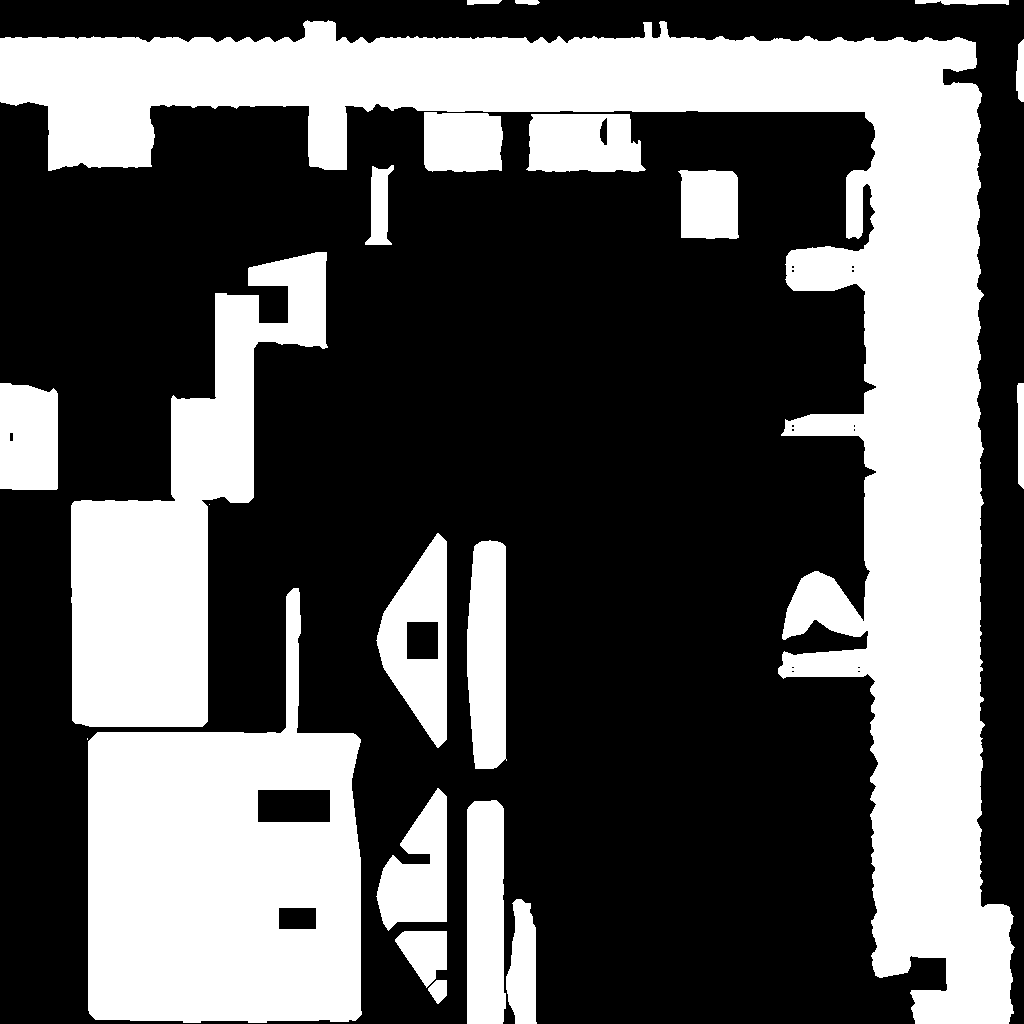
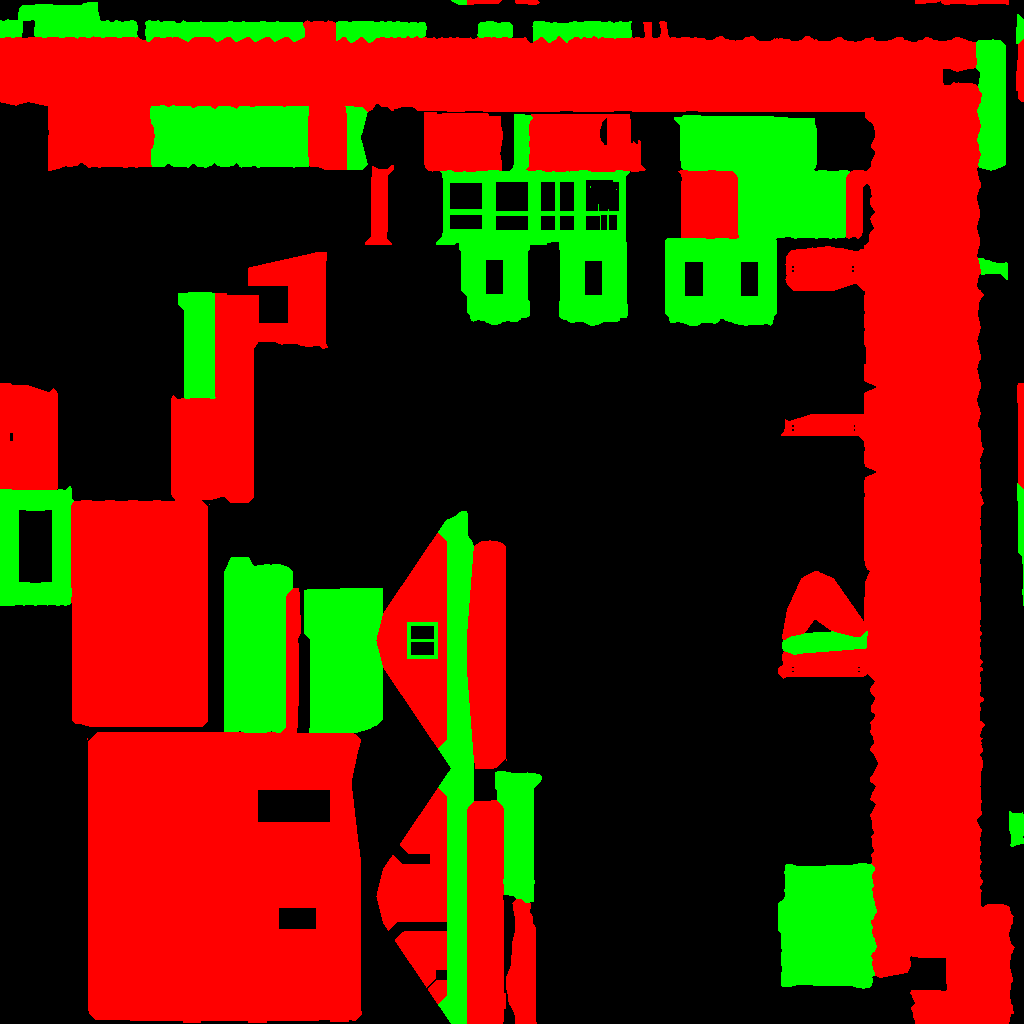
assets: цветная маска избы (дерево и крашеные детали), скрипт настройки цвета наличников

diff --git a/assets/izba_slate/_work/14_woodmask.py b/assets/izba_slate/_work/14_woodmask.py
@@ -48,16 +48,29 @@ tp = np.array(tex.pixels[:], dtype=np.float32).reshape(R, R, tex.channels)[..., 
 diff = np.abs(tp[m] - col).max()
 print('CHECK colour recomputed here vs T_IzbaSlate_D.png on painted texels: max abs diff %.4f (1/255 = 0.0039)' % diff)
 
-mask = np.zeros((R, R)); mask[m] = wood
-filled = m.copy()
-for _ in range(8):                                      # same 8 px bleed as the colour texture, kept binary
-    acc = np.zeros((R, R)); cnt = np.zeros((R, R))
-    for dy, dx in ((0, 1), (0, -1), (1, 0), (-1, 0), (1, 1), (1, -1), (-1, 1), (-1, -1)):
-        acc += np.roll(np.roll(mask * filled, dy, 0), dx, 1); cnt += np.roll(np.roll(filled, dy, 0), dx, 1)
-    new = (~filled) & (cnt > 0)
-    mask[new] = (acc[new] / cnt[new]) >= 0.5
-    filled |= new
-px = np.concatenate([np.repeat(mask[..., None], 3, -1), np.ones((R, R, 1))], -1).astype(np.float32)
+# green channel: painted wooden details (flaking paint incl. the bare patches inside them)
+painted = np.isin(prt, (P_CASING, P_DOORFRAME, P_BARGE))
+s = prt == P_GABLE
+front = N[s, 0] < 0; a_, b_ = np.abs(Y[s]), np.abs(Z[s] - (WTOP + 0.19 + 0.42))
+win = front & (a_ < 0.33) & (b_ < 0.27)
+painted[s] = (Z[s] < WTOP + 0.19) | (win & ((a_ > 0.26) | (b_ > 0.20) | (a_ < 0.022)))
+s = prt == P_GLASS                                      # window sashes around the panes
+painted[s] = (np.minimum(I[s, 1], I[s, 2]) < 0.05) | (np.abs(L[s, 0]) > I[s, 1] - 0.022) | (np.abs(L[s, 2]) > I[s, 2] - 0.022)
+
+def bleed(val):                                         # same 8 px bleed as the colour texture, kept binary
+    mask = np.zeros((R, R)); mask[m] = val
+    filled = m.copy()
+    for _ in range(8):
+        acc = np.zeros((R, R)); cnt = np.zeros((R, R))
+        for dy, dx in ((0, 1), (0, -1), (1, 0), (-1, 0), (1, 1), (1, -1), (-1, 1), (-1, -1)):
+            acc += np.roll(np.roll(mask * filled, dy, 0), dx, 1); cnt += np.roll(np.roll(filled, dy, 0), dx, 1)
+        new = (~filled) & (cnt > 0)
+        mask[new] = (acc[new] / cnt[new]) >= 0.5
+        filled |= new
+    return mask
+mask = bleed(wood)
+gmask = bleed(painted) * (mask < 0.5)                   # a border texel never belongs to both
+px = np.stack([mask, gmask, np.zeros((R, R)), np.ones((R, R))], -1).astype(np.float32)
 PATH = OUT + 'T_IzbaSlate_WoodMask.png'
 im = bpy.data.images.new('T_IzbaSlate_WoodMask', R, R, alpha=False)
 im.pixels.foreach_set(px.ravel())
@@ -65,17 +78,22 @@ im.filepath_raw = PATH; im.file_format = 'PNG'; im.save()
 
 # ---------- checks on the saved file ----------
 chk = bpy.data.images.load(PATH)
-mk = np.array(chk.pixels[:], dtype=np.float32).reshape(R, R, chk.channels)[..., 0]
-print('MASK %s %dx%d channels=%d depth=%d %.1f KB values=%s white=%.3f of texture' % (
-    PATH, chk.size[0], chk.size[1], chk.channels, chk.depth, os.path.getsize(PATH) / 1024, np.unique(mk).round(3), (mk > 0.5).mean()))
-print('CHECK saved mask equals computed on painted texels: %s' % bool(((mk[m] > 0.5) == wood).all()))
+ck = np.array(chk.pixels[:], dtype=np.float32).reshape(R, R, chk.channels)
+mk, gk, bk = ck[..., 0], ck[..., 1], ck[..., 2]
+print('MASK %s %dx%d channels=%d depth=%d %.1f KB red values=%s green values=%s blue max=%.3f red=%.3f green=%.3f of texture' % (
+    PATH, chk.size[0], chk.size[1], chk.channels, chk.depth, os.path.getsize(PATH) / 1024, np.unique(mk).round(3), np.unique(gk).round(3), bk.max(), (mk > 0.5).mean(), (gk > 0.5).mean()))
+print('CHECK saved channels equal computed on painted texels: red %s green %s' % (bool(((mk[m] > 0.5) == wood).all()), bool(((gk[m] > 0.5) == painted).all())))
+print('CHECK texels set in both red and green (whole file): %d' % int(((mk > 0.5) & (gk > 0.5)).sum()))
+prev = bpy.data.images.load(W_DIR + '_woodmask_v1_red_only.png')
+pv = np.array(prev.pixels[:], dtype=np.float32).reshape(R, R, prev.channels)[..., 0]
+print('CHECK red channel vs previous mask file (all 1024x1024 texels): differing texels %d' % int(((pv > 0.5) != (mk > 0.5)).sum()))
 names = {P_WALL: 'wall logs', P_FOUND: 'foundation', P_GLASS: 'glass+frames', P_DOORLEAF: 'door', P_REVEAL: 'recess sides', P_SILL: 'recess sills',
          P_CASING: 'casings', P_DOORFRAME: 'door frame', P_PORCH: 'porch', P_LOGSIDE: 'log ends side', P_LOGCAP: 'log end caps', P_HIDDEN: 'hidden',
          P_GABLE: 'gable', P_SLATE: 'slate', P_SLATE_EDGE: 'slate edges', P_RIDGE: 'ridge', P_BARGE: 'barge boards', P_CHIM: 'chimney',
          P_PATCH: 'tin patch', P_BOARD: 'window boards', P_SHEATH: 'sheathing', P_SOFFIT: 'soffit'}
 for p in np.unique(prt):
     q = prt == p
-    print('PART %-14s texels %6d white %5.1f%%' % (names[int(p)], q.sum(), 100 * wood[q].mean()))
+    print('PART %-14s texels %6d red %5.1f%% green %5.1f%%' % (names[int(p)], q.sum(), 100 * wood[q].mean(), 100 * painted[q].mean()))
 r, g, b = tp[m][:, 0], tp[m][:, 1], tp[m][:, 2]
 green = (g - b > 14 / 255) & (g - r > 7 / 255)                      # moss
 rust = (r - b > 30 / 255)                                           # rust, brick
@@ -88,7 +106,10 @@ print('CHECK white area: mean rgb %s, max saturation %.3f | black area: mean rgb
 
 # overlay for the eye: wood kept, everything else tinted magenta
 ov = tp.copy()
-ov[mk < 0.5] = ov[mk < 0.5] * 0.35 + np.array([0.45, 0.0, 0.45])
+ov[(mk < 0.5) & (gk < 0.5)] = ov[(mk < 0.5) & (gk < 0.5)] * 0.35 + np.array([0.45, 0.0, 0.45])
+ov[gk > 0.5] = ov[gk > 0.5] * 0.6 + np.array([0.0, 0.4, 0.0])
+gp = (gk[m] > 0.5)
+print('CHECK by colour of T_IzbaSlate_D.png: pale-paint texels in green %d, in red %d, in neither %d (tin of ridge/patch expected)' % ((pale & gp).sum(), (pale & wood).sum(), (pale & ~gp & ~wood).sum()))
 o = bpy.data.images.new('ov', R, R, alpha=False)
 o.pixels.foreach_set(np.concatenate([ov, np.ones((R, R, 1))], -1).astype(np.float32).ravel())
 o.filepath_raw = OUT + 'renders/_qc_woodmask_overlay.png'; o.file_format = 'PNG'; o.save()

diff --git a/scripts/ue-remote/izba_trimtint.py b/scripts/ue-remote/izba_trimtint.py
@@ -1,0 +1,37 @@
+import unreal
+at=unreal.AssetToolsHelpers.get_asset_tools(); eal=unreal.EditorAssetLibrary; mel=unreal.MaterialEditingLibrary
+print('PIE',unreal.get_editor_subsystem(unreal.LevelEditorSubsystem).is_in_play_in_editor())
+SRC='E:/game-dev-team/assets/izba_slate/'; DEST='/Game/Environment/Buildings'
+mi=unreal.load_asset(DEST+'/MI_IzbaSlate')
+print('BEFORE wood',mel.get_material_instance_vector_parameter_value(mi,'WoodTint'),mel.get_material_instance_scalar_parameter_value(mi,'WoodBrightness'))
+tt=unreal.AssetImportTask()
+for k,v in [('filename',SRC+'T_IzbaSlate_WoodMask.png'),('destination_path',DEST),('destination_name','T_IzbaSlate_WoodMask'),('replace_existing',True),('automated',True),('save',False)]: tt.set_editor_property(k,v)
+at.import_asset_tasks([tt])
+mask=unreal.load_asset(DEST+'/T_IzbaSlate_WoodMask')
+mask.set_editor_property('srgb',False); mask.set_editor_property('compression_settings',unreal.TextureCompressionSettings.TC_MASKS); mask.modify()
+print('MASK srgb',mask.get_editor_property('srgb'),mask.get_editor_property('compression_settings'))
+tex=unreal.load_asset(DEST+'/T_IzbaSlate_D'); mat=unreal.load_asset(DEST+'/M_IzbaSlate')
+mel.delete_all_material_expressions(mat)
+E=lambda c,x,y: mel.create_material_expression(mat,c,x,y)
+C=mel.connect_material_expressions
+ts=E(unreal.MaterialExpressionTextureSample,-1500,0); ts.set_editor_property('texture',tex)
+ms=E(unreal.MaterialExpressionTextureSample,-1500,700); ms.set_editor_property('texture',mask); ms.set_editor_property('sampler_type',unreal.MaterialSamplerType.SAMPLERTYPE_MASKS)
+def tint(name,bname,y,dv):
+    t=E(unreal.MaterialExpressionVectorParameter,-1500,y); t.set_editor_property('parameter_name',name); t.set_editor_property('default_value',unreal.LinearColor(1,1,1,1))
+    b=E(unreal.MaterialExpressionScalarParameter,-1500,y+170); b.set_editor_property('parameter_name',bname); b.set_editor_property('default_value',1.0)
+    m1=E(unreal.MaterialExpressionMultiply,-1100,y); m2=E(unreal.MaterialExpressionMultiply,-900,y+50)
+    return m2,[C(ts,'RGB',m1,'A'),C(t,'',m1,'B'),C(m1,'',m2,'A'),C(b,'',m2,'B')]
+w,ok1=tint('WoodTint','WoodBrightness',200,0); tr,ok2=tint('TrimTint','TrimBrightness',450,0)
+l1=E(unreal.MaterialExpressionLinearInterpolate,-600,0); l2=E(unreal.MaterialExpressionLinearInterpolate,-350,0)
+ok=ok1+ok2+[C(ts,'RGB',l1,'A'),C(w,'',l1,'B'),C(ms,'R',l1,'Alpha'),C(l1,'',l2,'A'),C(tr,'',l2,'B'),C(ms,'G',l2,'Alpha'),mel.connect_material_property(l2,'',unreal.MaterialProperty.MP_BASE_COLOR)]
+r=E(unreal.MaterialExpressionConstant,-350,300); r.set_editor_property('r',0.9); ok.append(mel.connect_material_property(r,'',unreal.MaterialProperty.MP_ROUGHNESS))
+s=E(unreal.MaterialExpressionConstant,-350,400); s.set_editor_property('r',0.2); ok.append(mel.connect_material_property(s,'',unreal.MaterialProperty.MP_SPECULAR))
+print('CONN',ok)
+mel.recompile_material(mat)
+mel.set_material_instance_vector_parameter_value(mi,'TrimTint',unreal.LinearColor(1.0,0.72,0.45,1.0))
+mel.set_material_instance_scalar_parameter_value(mi,'TrimBrightness',0.9)
+mel.update_material_instance(mi)
+print('PARAMS v',mel.get_vector_parameter_names(mat),'s',mel.get_scalar_parameter_names(mat))
+print('AFTER wood',mel.get_material_instance_vector_parameter_value(mi,'WoodTint'),mel.get_material_instance_scalar_parameter_value(mi,'WoodBrightness'))
+print('AFTER trim',mel.get_material_instance_vector_parameter_value(mi,'TrimTint'),mel.get_material_instance_scalar_parameter_value(mi,'TrimBrightness'))
+for a in (mask,mat,mi): print('SAVE',a.get_name(),eal.save_loaded_asset(a,False))

diff --git a/scripts/ue-remote/rough_dump.py b/scripts/ue-remote/rough_dump.py
@@ -1,0 +1,19 @@
+import unreal
+mel=unreal.MaterialEditingLibrary
+ar=unreal.AssetRegistryHelpers.get_asset_registry()
+for a in ar.get_assets_by_path('/Game',recursive=True):
+    n=str(a.asset_name)
+    if ('Ground' in n or 'Grass' in n) and str(a.asset_class_path.asset_name) in ('Material','MaterialInstanceConstant'):
+        o=a.get_asset(); p=o.get_path_name()
+        if isinstance(o,unreal.Material):
+            print('MAT',p,'scalars',[str(x) for x in mel.get_scalar_parameter_names(o)],'vectors',[str(x) for x in mel.get_vector_parameter_names(o)])
+            for s in mel.get_scalar_parameter_names(o): print('    ',s,'=',mel.get_material_default_scalar_parameter_value(o,s))
+        else:
+            print('MI',p,'parent',o.get_editor_property('parent').get_path_name() if o.get_editor_property('parent') else None,'scalars',[(str(s.parameter_info.name),s.parameter_value) for s in o.get_editor_property('scalar_parameter_values')])
+used={}
+for a in unreal.get_editor_subsystem(unreal.EditorActorSubsystem).get_all_level_actors():
+    for c in a.get_components_by_class(unreal.StaticMeshComponent):
+        for m in c.get_materials():
+            if m and ('Ground' in m.get_name() or 'Grass' in m.get_name()):
+                k=m.get_path_name(); used.setdefault(k,set()).add(a.get_actor_label()+'/'+(c.static_mesh.get_name() if c.static_mesh else '-'))
+for k,v in used.items(): print('USED',k,len(v),sorted(v)[:4])

diff --git a/assets/izba_slate/izba_slate.asset.md b/assets/izba_slate/izba_slate.asset.md
@@ -81,11 +81,13 @@ verified_from: _work/_export.log    # все числа из обратного 
   Старый материал дома брал цвет из вершин — для этой модели он не подходит.
 
 ## Маска дерева
-`T_IzbaSlate_WoodMask.png` — 1024×1024, та же развёртка UVMap, только чёрное и белое (скрипт `_work/14_woodmask.py`).
-Белое: брёвна стен, торцы брёвен, крыльцо, доски фронтонов, доски на заколоченном окне, дверь,
-деревянные откосы и подоконники оконных и дверной ниш. Чёрное: шифер, конёк, заплата, труба, стёкла
-с рамами, наличники, дверная коробка, ветровые доски и крашеная доска под фронтоном (на них краска),
-фундамент, мох на крыльце, дверная ручка, гвозди, чердачное окошко, выпавшие доски, невидимые грани.
+`T_IzbaSlate_WoodMask.png` — 1024×1024, та же развёртка UVMap, цветная маска без размытия (скрипт `_work/14_woodmask.py`).
+Синий канал пустой. Красный и зелёный каналы не пересекаются.
+Зелёный канал — крашеные деревянные детали целиком (и краска, и проплешины дерева на них): наличники,
+дверная коробка, ветровые доски, доска под фронтоном, рама чердачного окошка, оконные рамы вокруг стёкол.
+Красный канал — голое дерево: брёвна стен, торцы брёвен, крыльцо, доски фронтонов, доски на заколоченном окне, дверь,
+деревянные откосы и подоконники оконных и дверной ниш. Чёрное в обоих каналах: шифер, конёк, заплата,
+труба, стёкла, фундамент, мох на крыльце, дверная ручка, гвозди, выпавшие доски, невидимые грани.
 В материале UE маску читать как линейную (без sRGB).
 
 ## Не проверено
